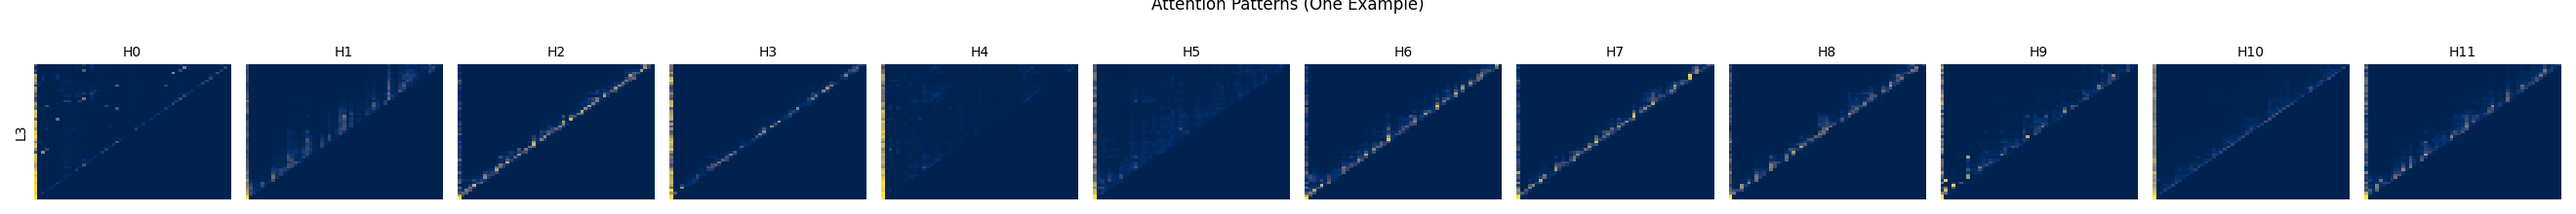
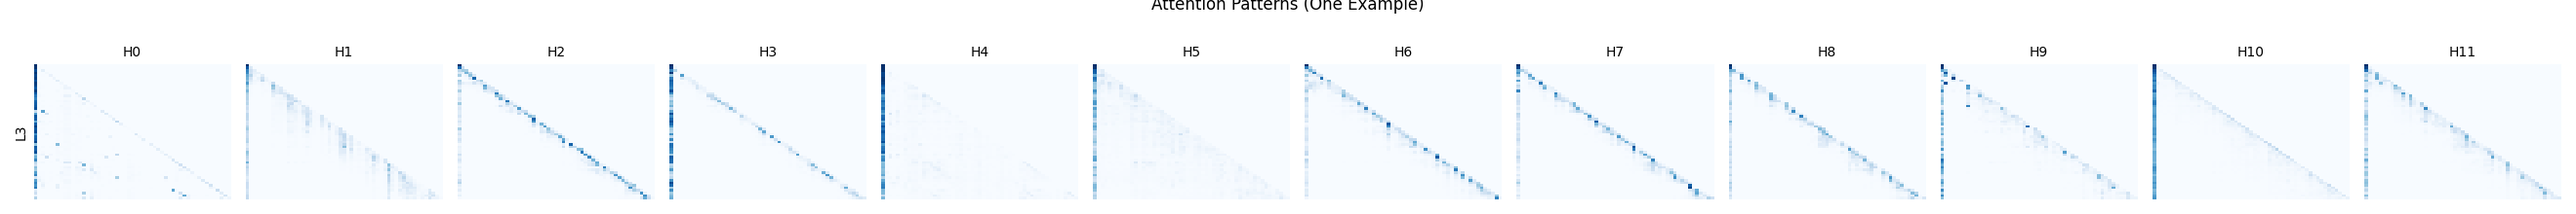
update codes

diff --git a/tools.py b/tools.py
@@ -1,18 +1,22 @@
 import numpy as np 
+import pandas as pd 
 from transformer_lens import HookedTransformer
 import matplotlib.pyplot as plt
 import seaborn as sns 
 
 def generate_sycophantic_responses_df(df): 
-    
-    df = df.copy()
-    
-    a = np.random.rand(len(df))
-    df['is_syco'] = np.where(a < 0.5, 0, 1)
+    df_syco_0 = df.copy()
+    df_syco_0['is_syco'] = 0
+    df_syco_1 = df.copy()
+    df_syco_1['is_syco'] = 1
 
-    df['q'] = df.apply(lambda x: x['question'] + x['answer_matching_behavior'] if x['is_syco'] > 1 
-                       else x['question'] + x['answer_not_matching_behavior'], axis=1)
-    return df 
+    df_contrastive = pd.concat([df_syco_0, df_syco_1], ignore_index=True)
+
+    df_contrastive['q'] = df_contrastive.apply(
+        lambda x: x['question'] + x['answer_matching_behavior'] if x['is_syco'] == 1 else x['question'] + x['answer_not_matching_behavior'], axis=1)
+    
+    df_contrastive['index'] = np.repeat(df.index.values, 2)
+    return df_contrastive.sort_values(by='index', ascending=True)
 
 
 def extract_activations_from_prompts(df, n, model="gpt2-small"): 
@@ -23,11 +27,11 @@ def extract_activations_from_prompts(df, n, model="gpt2-small"):
     samples = df_sample['q'].to_list()
     
     model = HookedTransformer.from_pretrained(model_name=model)
-    _, cache = model.run_with_cache(samples)
-    return cache
+    logits, cache = model.run_with_cache(samples)
+    return logits, cache
 
 
-def visualize_attention_scores(cache, nth_layers, n_heads, kind="pattern", cmap=None):
+def visualize_attention_internals(cache, nth_layers, n_heads, kind="pattern", cmap=None):
     """
     Visualize attention for one example across specified layers and heads.
     
@@ -35,12 +39,20 @@ def visualize_attention_scores(cache, nth_layers, n_heads, kind="pattern", cmap=
         cache: TransformerLens ActivationCache
         nth_layers: list of int, layers to visualize
         n_heads: int, number of attention heads
-        kind: "pattern" (softmaxed attention) or "scores" (raw logits)
+        kind: "pattern" (post softmax) or "scores" (raw attention logits)
         cmap: optional colormap for visualization
     """
+    
+    kind_dict = {
+        "logits": "attn_scores", 
+        "pattern": "pattern", 
+        "pre-softmax": "attn_scores", 
+        "post-softmax": "pattern"
+    }
+    kind = kind_dict.get(kind)
 
     if cmap is None:
-        cmap = "RdBU_r" if kind == "pattern" else "RdBu_r"
+        cmap = "Blues" if kind == "pattern" else "Blues_r"
 
     fig, axes = plt.subplots(len(nth_layers), n_heads, figsize=(2.2 * n_heads, 2.2 * len(nth_layers)), squeeze=False)
     
@@ -52,7 +64,7 @@ def visualize_attention_scores(cache, nth_layers, n_heads, kind="pattern", cmap=
             ax = axes[i, head]
             mat = attn[head].detach().cpu().numpy()
 
-            sns.heatmap(mat[::-1], cmap=cmap, ax=ax, cbar=False, center=0 if kind == "scores" else None)
+            sns.heatmap(mat, cmap=cmap, ax=ax, cbar=False, center=0 if kind == "scores" else None)
 
             # Titles and labels on first row and col only
             if i == 0:

diff --git a/preprocess.py b/preprocess.py
@@ -1,16 +1,23 @@
 from datasets import load_dataset
-import numpy as np 
-import seaborn as sns
 from tools import * 
 
 ds = load_dataset("Anthropic/model-written-evals")
 df = ds['train'].to_pandas()
 
 df_train = generate_sycophantic_responses_df(df)
-cache = extract_activations_from_prompts(df_train, n=1)
+cache = extract_activations_from_prompts(df_train, n=50)
 
 for l in range(0, 12):
-    fig = visualize_attention_scores(cache=cache, nth_layers=[l], n_heads=12, kind="pattern")
+    fig = visualize_attention_internals(cache=cache, nth_layers=[l], n_heads=12, kind="post-softmax")
     fig.savefig(f'visualizations/attention_layer_{l}_heads_12_attn_scores.png')
     plt.close(fig)
+
+
     
+"""
+I think I am interested in the later layers where the model's is either attending to the sycophantic choice (e.g., (A)) it is picking
+and the "option space" provided in the prompt (e.g., (A) .... (B) ...  What should you do? ). So I am curious at looking for the last query 
+token and whether it attends to the option space or itself. 
+
+E.g. picking layer 10, I am interested in the 3rd attention head. 
+"""
